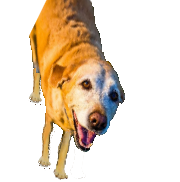
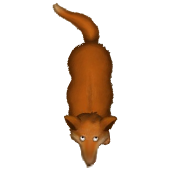
New dog anims

diff --git a/entities/dog.py b/entities/dog.py
@@ -13,7 +13,7 @@ dog_texture = pygame.image.load("./resources/png/dog.png")
 dog_texture = pygame.transform.scale(dog_texture, (50, 50))
 dog_texture = pygame.transform.rotate(dog_texture, -90)
 
-dog_keyframes = [pygame.image.load("./resources/png/animations/dog/dog_" + str(x) + ".png") for x in range(1, 3)]
+dog_keyframes = [pygame.image.load("./resources/png/animations/dog/dog_" + str(x) + ".png") for x in range(1, 7)]
 
 
 class Dog(object):
@@ -66,6 +66,7 @@ class Dog(object):
                 self.current_bark_delay = random.randint(200, 300)
 
         if not self.following_pizza and distance((self.x, self.y), self.target_pos) < self.FOLLOW_RANGE:
+            self.speed = 0.0
             return
 
         if self.following_pizza and distance((self.x, self.y), self.target_pos) < self.PIZZA_EATING_RANGE:
@@ -113,14 +114,10 @@ class Dog(object):
             self.y += dy
 
     def draw(self, screen: Surface, camera: Camera):
-        if self.speed > 0.0:
-
-            rotated = pygame.transform.rotate(dog_keyframes[self.keyframes_counter // 5], -self.angle * (180.0 / pi))
-            self.keyframes_counter = (self.keyframes_counter + 1) % (5 * len(dog_keyframes))
-            camera.blit_surface_to_screen(screen, rotated, self.x, self.y)
-        else:
-            rotated = pygame.transform.rotate(dog_texture, -self.angle * (180.0 / pi))
-            camera.blit_surface_to_screen(screen, rotated, self.x, self.y)
+        scaled = pygame.transform.scale(dog_keyframes[self.keyframes_counter // 5], (100, 100))
+        rotated = pygame.transform.rotate(scaled, -self.angle * (180.0 / pi) + 90)
+        self.keyframes_counter = (self.keyframes_counter + 1) % (5 * len(dog_keyframes))
+        camera.blit_surface_to_screen(screen, rotated, self.x, self.y)
 
     def hear(self, emitter: SoundEmitter):
         # TODO: Make this depend on loudness :)
